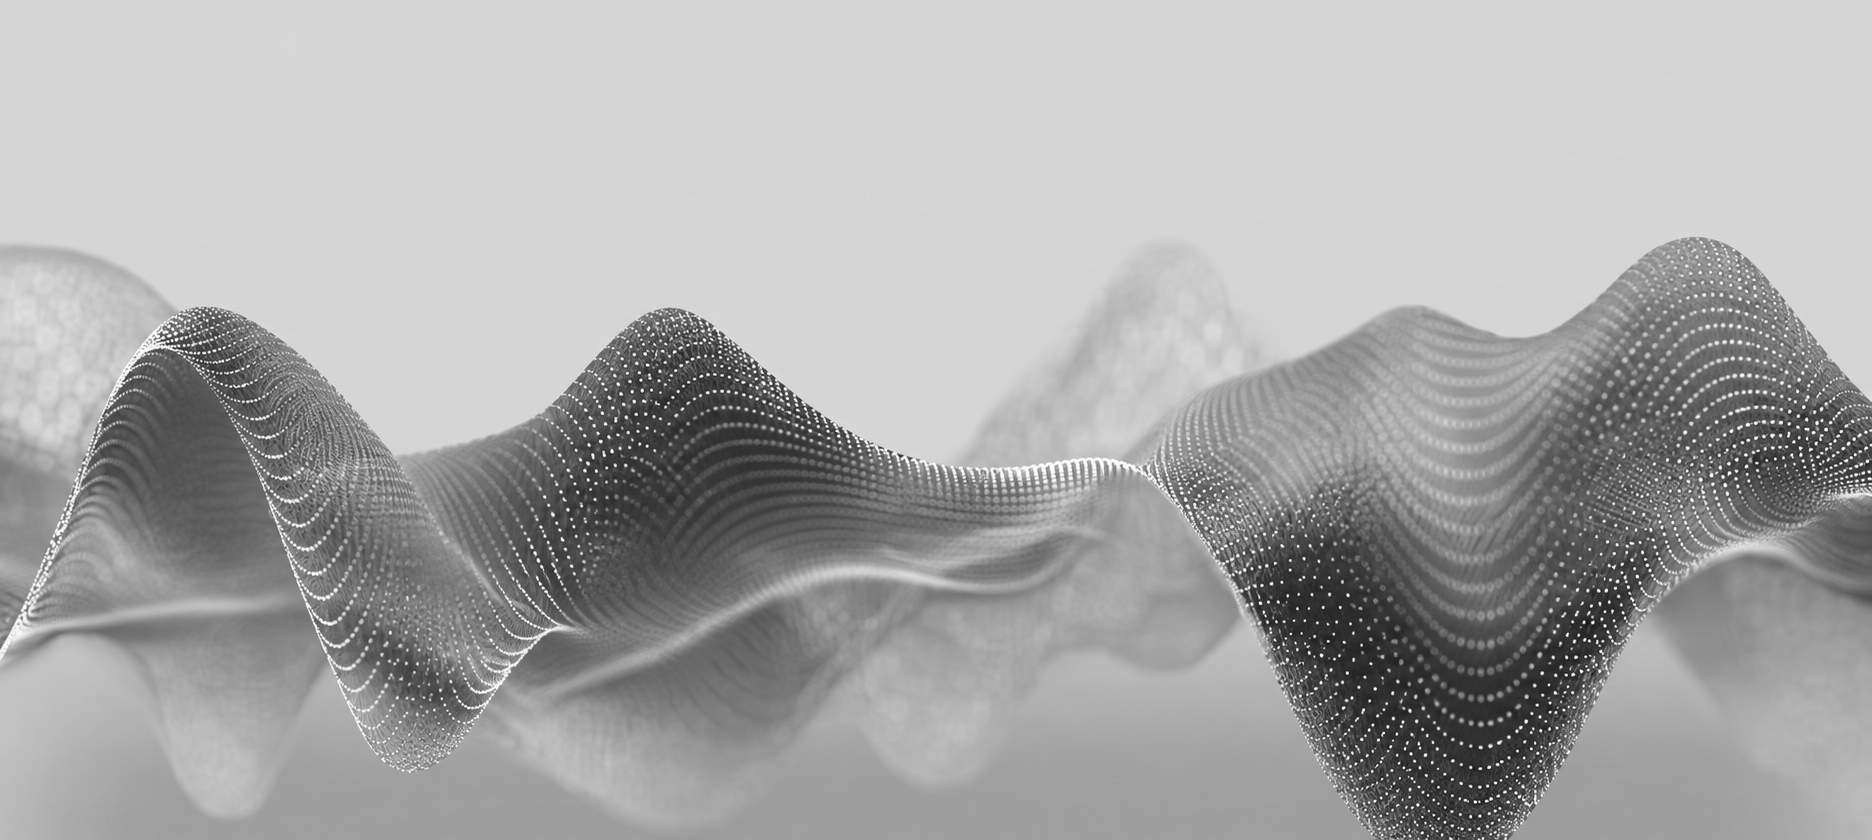
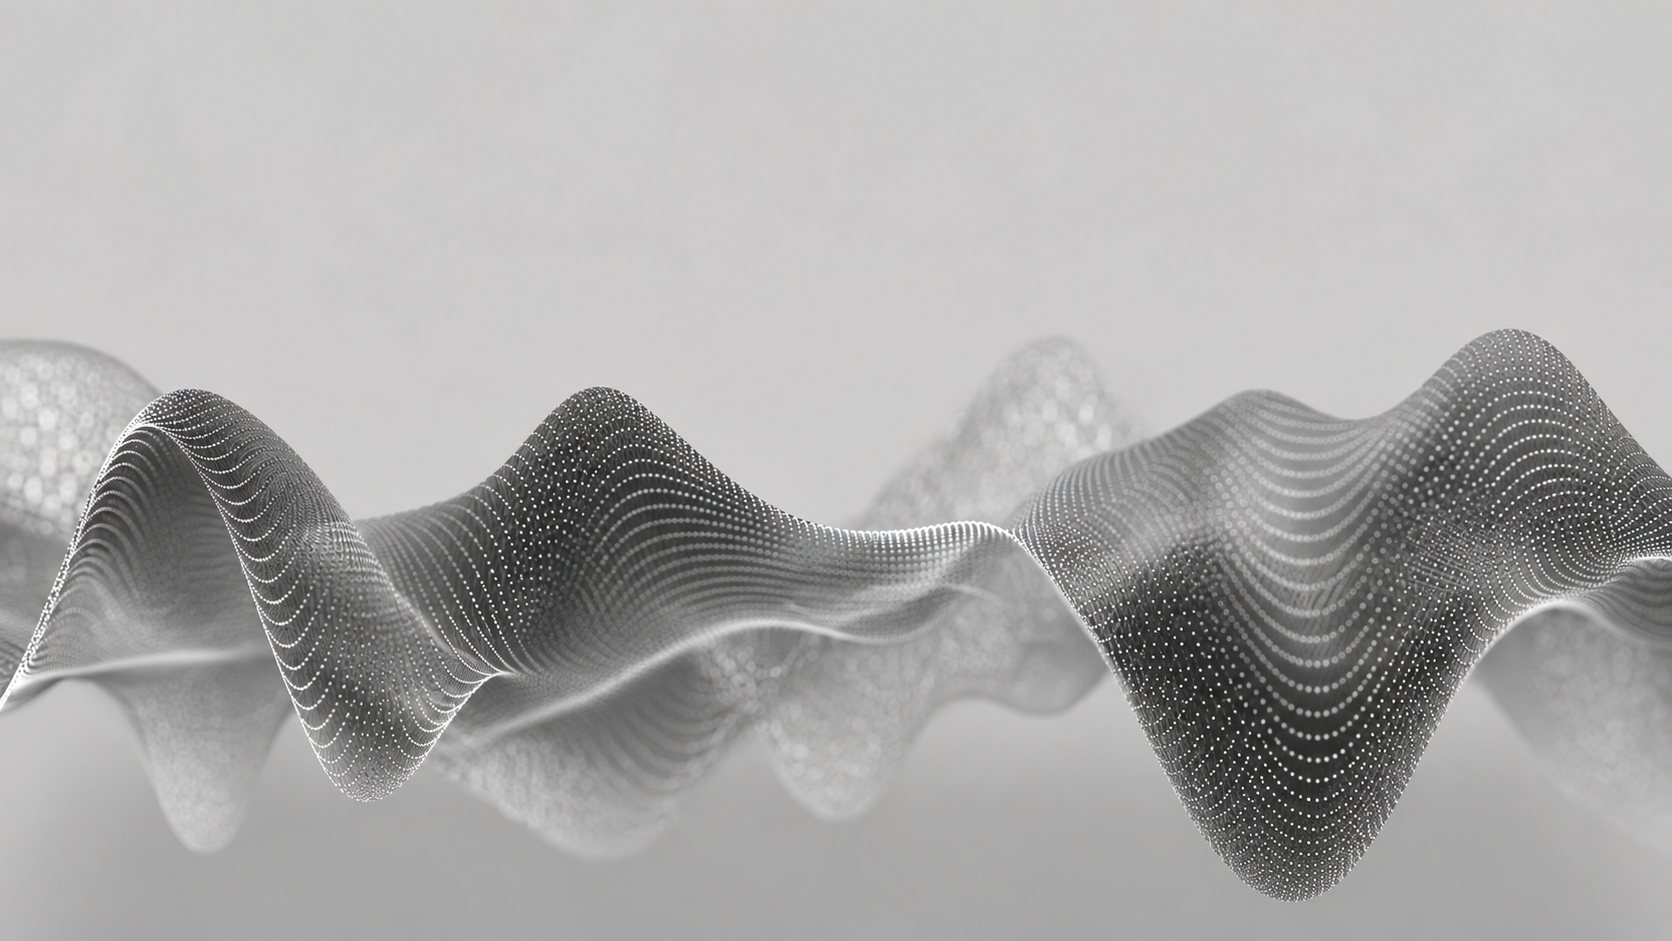
some updates

diff --git a/src/components/landing/hero.tsx b/src/components/landing/hero.tsx
@@ -44,7 +44,7 @@ export function Hero() {
         Cloud Architecture
       </p>
 
-      <div className="relative z-10 mx-auto flex max-w-[1440px] justify-center px-4 pt-8 pb-10 sm:pt-12 sm:pb-14 lg:pt-14 lg:pb-20">
+      <div className="relative z-10 mx-auto flex max-w-[1440px] justify-center px-4 pt-8 pb-24 sm:pt-12 sm:pb-32 lg:pt-14 lg:pb-40">
         <div className="inline-flex max-w-full flex-col items-stretch">
           <h1 className="hero-display text-center text-ink">
             EMP
@@ -87,3 +87,4 @@ export function Hero() {
     </section>
   );
 }
+
